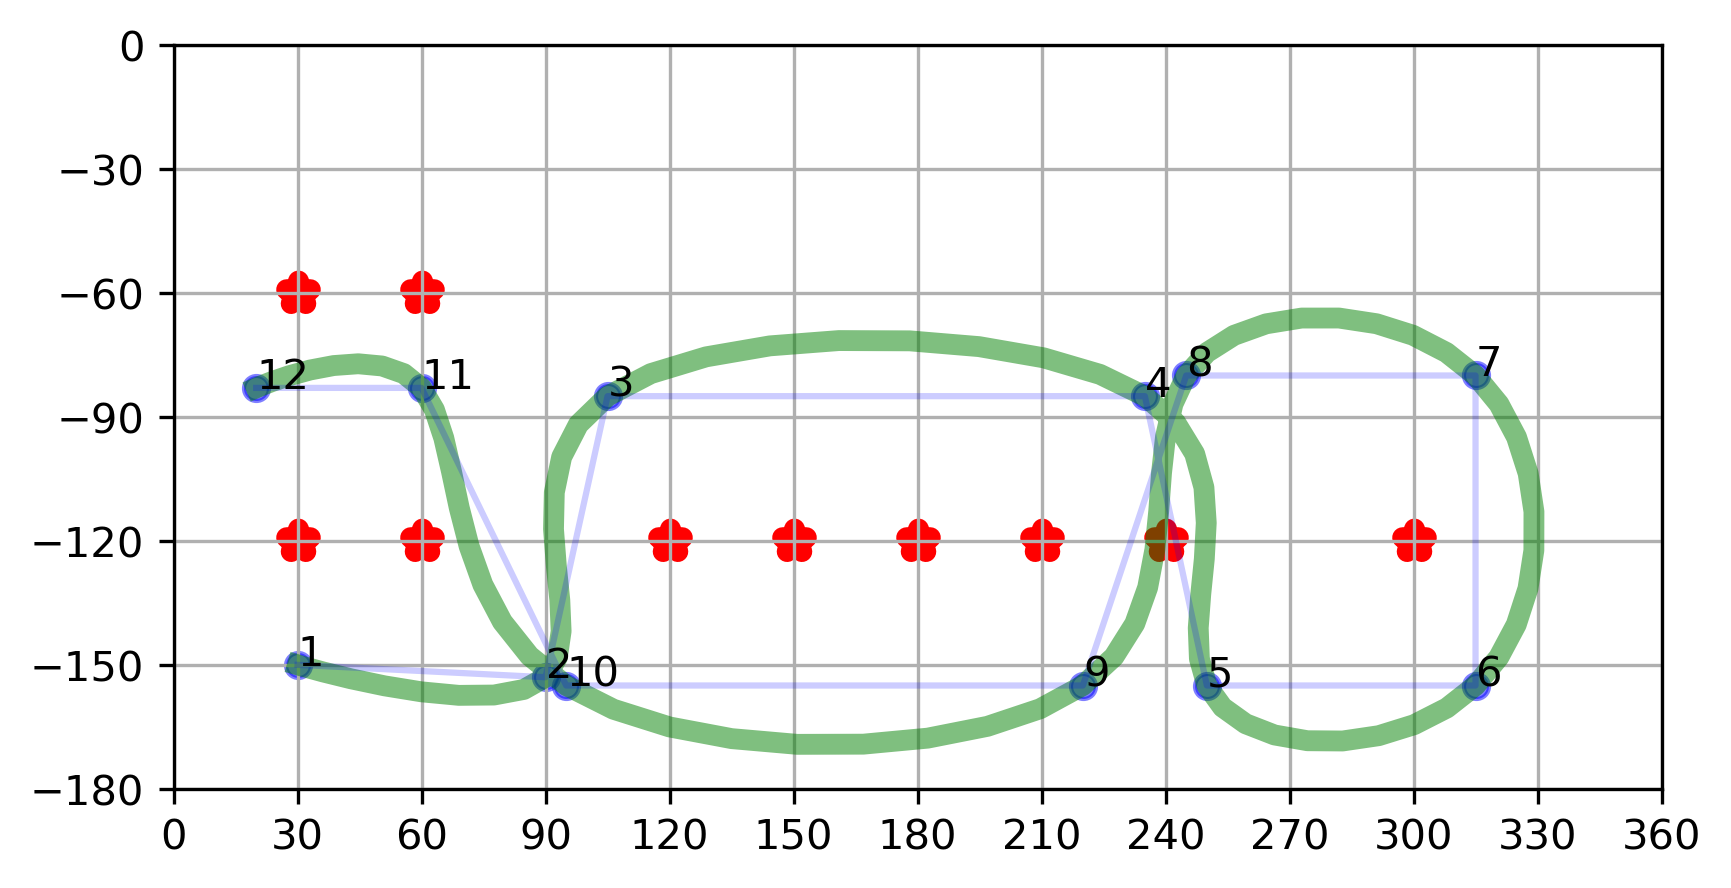
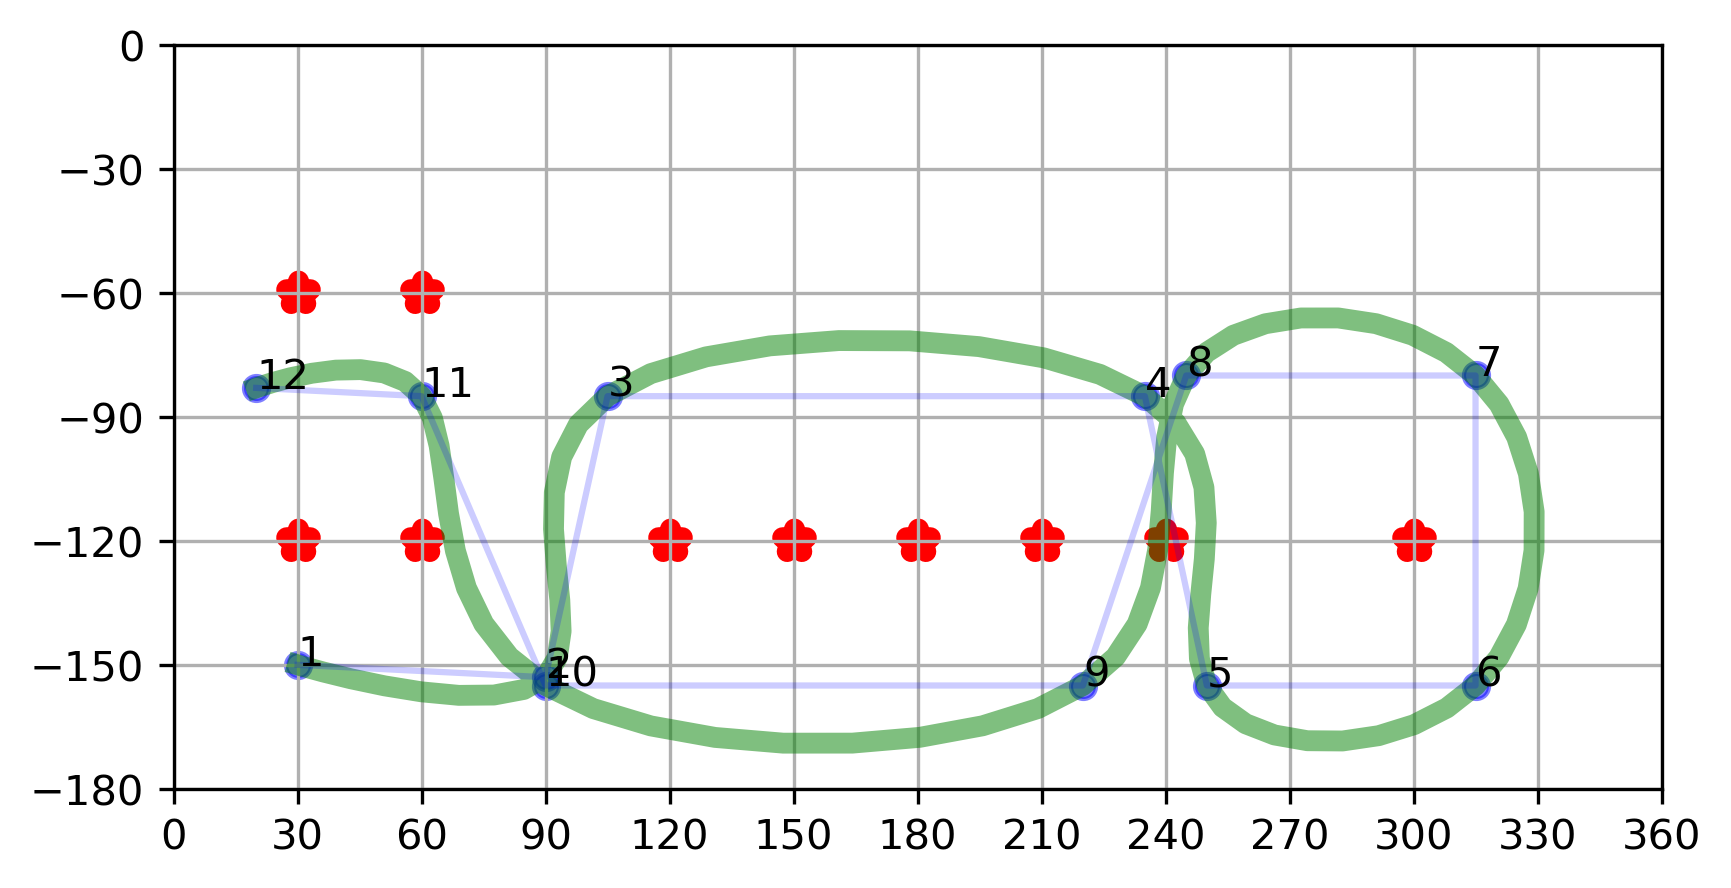
slalom apr2 v2

diff --git a/python/slalom_apr2.java b/python/slalom_apr2.java
@@ -8,7 +8,7 @@
 	{315,80},	// 7
 	{245,80},	// 8
 	{220,155},	// 9
-	{95,155},	// 10
-	{60,83},	// 11
+	{90,155},	// 10
+	{60,85},	// 11
 	{20,83},	// 12
 }
